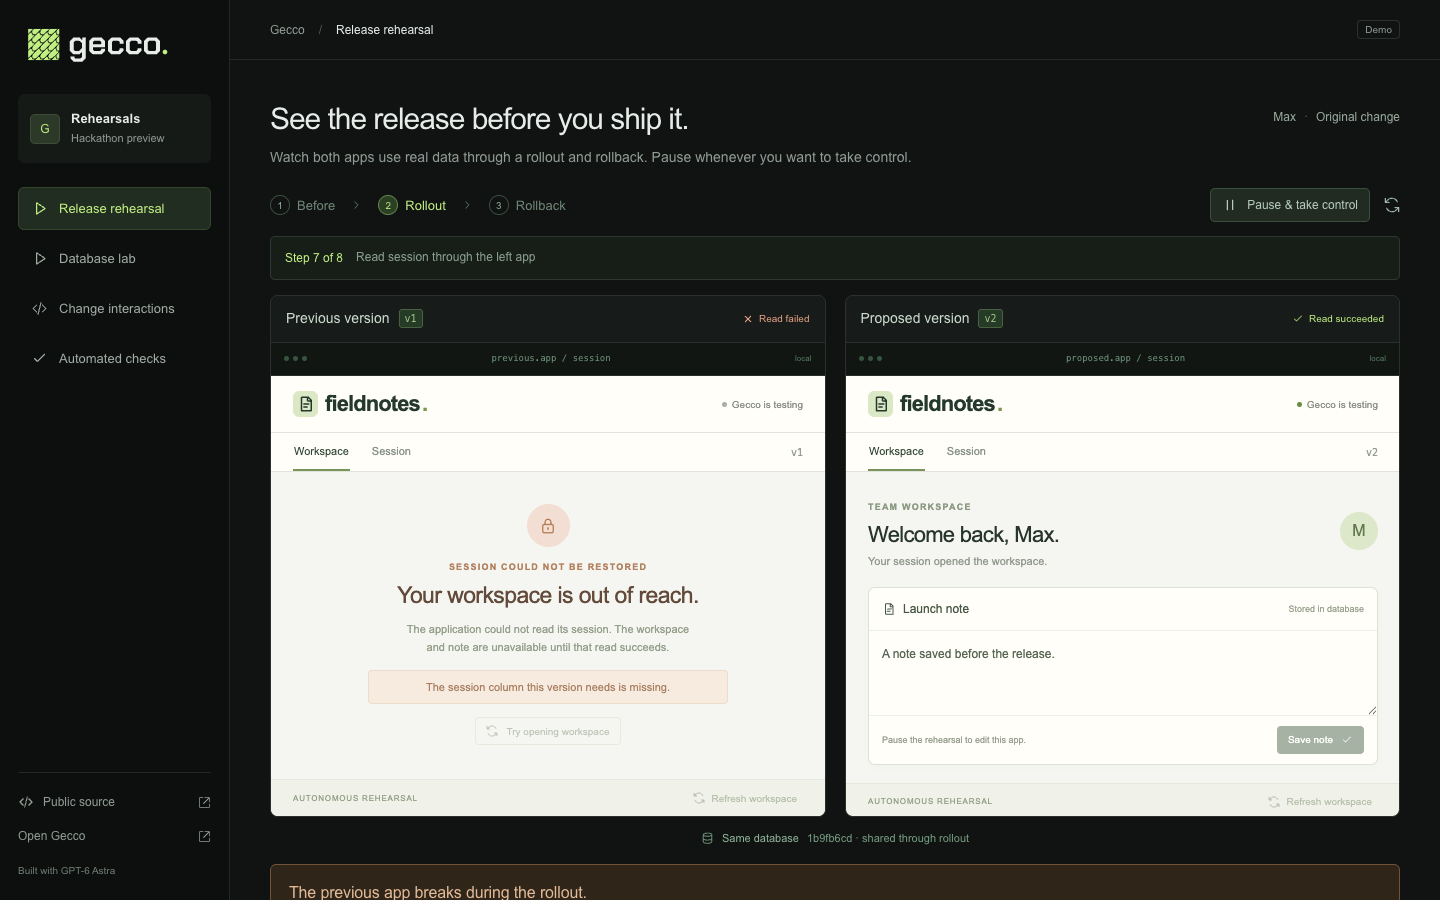
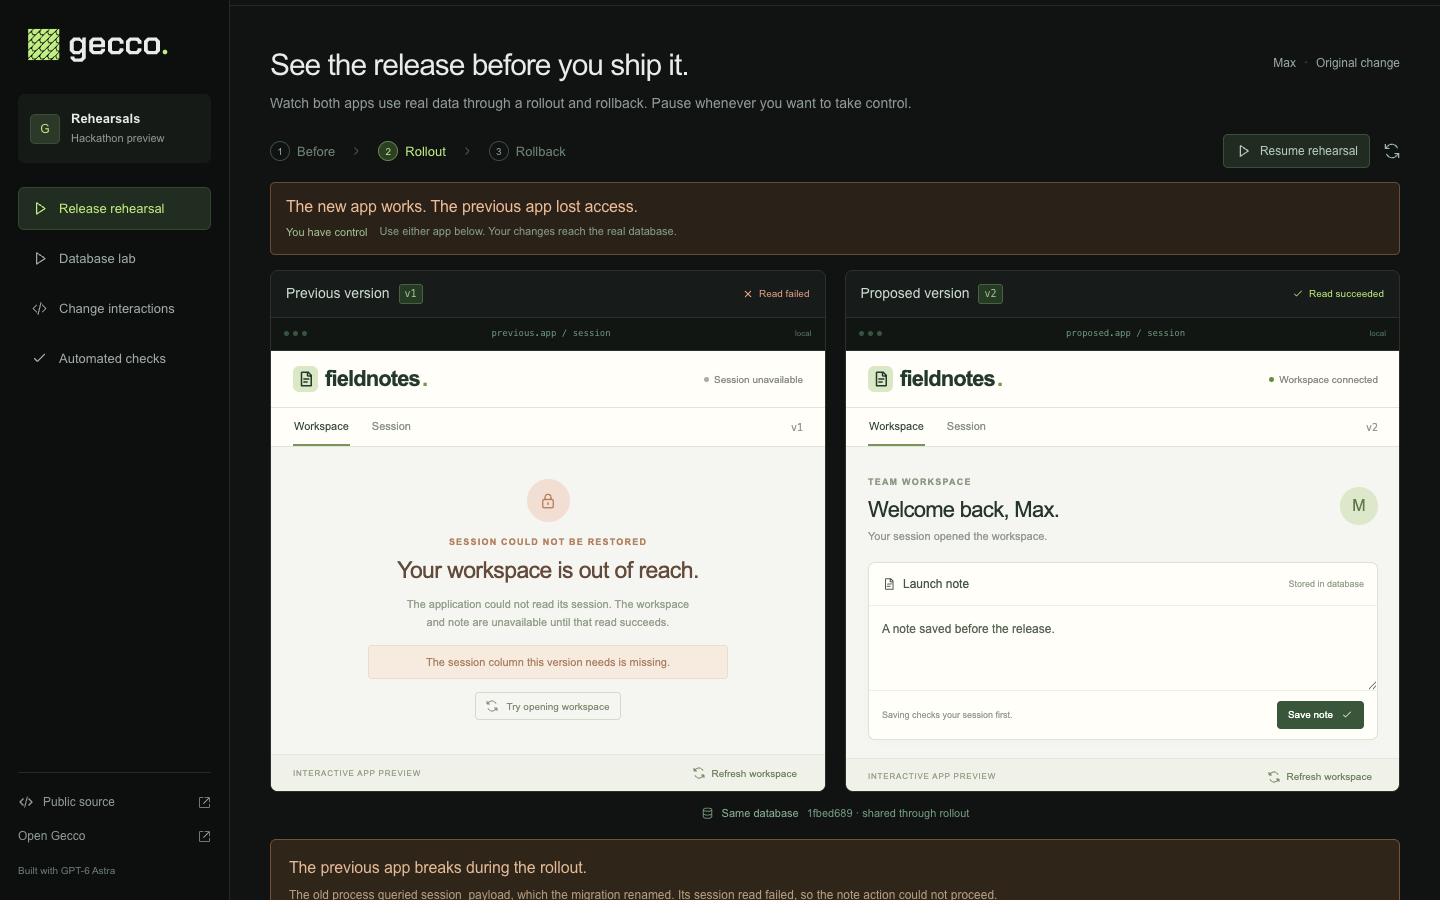
Record paired app browser acceptance and demo evidence

diff --git a/docs/VALIDATION.md b/docs/VALIDATION.md
@@ -133,3 +133,54 @@ Actual screenshots: [rollback failure](images/lab-rollback.png) and
 The manual lab executes fixed trusted specimen code; it does not run a live traffic service
 or authenticate a user. Its sessions expire after 15 idle minutes or 30 total minutes and do
 not survive a server restart. JSON exports preserve observations, not a restorable database.
+
+## Paired apps — September 10 afternoon
+
+The default view now opens two interactive Fieldnotes browser documents, each backed by a
+separate Node app process executing the bundled session code. The original manual lab remains
+under **Database lab**. Engine `3226ed2` / `ff16c2e`, API `a36b323`, preview integration `6bfab3c`
+and interface through `76e9001` implement the paired journey. **53 tests pass**, zero skipped;
+TypeScript and the production build pass. [Public Linux CI at `983074c`](https://github.com/kllymx/gecco-rehearsals/actions/runs/34503907612)
+passed all tests and the build before the final completed-state text change.
+
+Four new real-engine tests check distinct live app PIDs, isolated initial databases, shared
+database routing during rollout, actual note reads/writes, retained marked rows and notes through
+rollback, replacement of the proposed app process, command retries/conflicts, inconclusive worker
+failure and cleanup. Nine new API/worker tests check the real coordinator, autonomous completion,
+pause/read/save/resume, client disconnect, expiry, bounded concurrency and resource cleanup.
+
+Actual browser execution through the Tailscale HTTPS endpoint at 12:38–12:48 p.m. New York:
+
+- Both versions opened their workspaces independently. During the original rollout, the left
+  app failed its session read while the new right app still opened. After rollback, both v1 app
+  processes rejected the retained v2 payload and neither workspace opened. These observations
+  drive the headline above the previews; no outcome is supplied by a presentation timer.
+- Compatible experiment `991912fe-c544-4676-b3c4-1edfff1df365` completed all eight actions. A user
+  then saved **Live from NYC: this note survived the release.** through the left app. The right
+  app became stale; opening its workspace read that exact note from the same database. Downloaded
+  JSON contained 11 events at revision 10, all passing, with separate live app IDs and one shared
+  database `731d407a-845c-479a-854c-611ca385a21a`.
+- Original experiment `89f872de-e117-4f39-ad65-a2ba22d4eefd` paused after six autonomous actions.
+  Reload preserved the pause. Saving **Edited while paused. Keep this note through rollback.**
+  through the working right app succeeded. Resume followed by another browser reload completed
+  only the two remaining actions. Downloaded JSON confirmed eight autonomous actions plus that
+  one manual save (revision 9, ten events including creation), on the same shared database
+  `1fbed689-0dcb-4e49-911d-3d011ed139f4`.
+- That final export retained both the exact custom note and v2 session
+  `twin-v2-54be2492-c31c-4194-8122-d8bf1e2272af`, while both old readers reported their actual
+  payload-contract errors. The right application instance changed on rollback. This distinguishes
+  data preservation from application compatibility: the note exists, but the old app cannot open it.
+- **Try compatibility fix** closed the original experiment and automatically ran a fresh one.
+  Both previews opened after rollout and rollback. Source, SQL, history and JSON export remained
+  available below the main view. Completed apps remain directly editable.
+
+Actual screenshots: [rollout with one blocked app](images/paired-rollout.png),
+[rollback with both blocked](images/paired-rollback.png),
+[compatible apps](images/paired-compatible.png), and
+[a note saved and read through both apps](images/paired-notes.png).
+
+The backend runs a fixed eight-action journey with short intervals to make completed observations
+readable. This is not an AI-generated browser plan. The two app processes run trusted bundled code;
+they are not hardened sandboxes for arbitrary repositories. Databases use real PostgreSQL through
+PGlite. The paired demo requires no inference request and survives browser reload, but not server
+restart or experiment expiry. JSON is an observation export, not a restorable runtime.

diff --git a/README.md b/README.md
@@ -122,6 +122,8 @@ never executed.
   recorded-analysis restoration after reload, plus both interaction variants and JSON export.
 - The interactive lab has been exercised through the original and compatible transitions,
   including personalized records, stale reads, reload restoration and matching JSON exports.
+- Paired browser acceptance covers both variants, pause and edit, shared-note reads, resume after
+  reload, and exported proof that the custom note remains through a failing rollback.
 
 See the [validation record](docs/VALIDATION.md) for scope and provenance.
 
